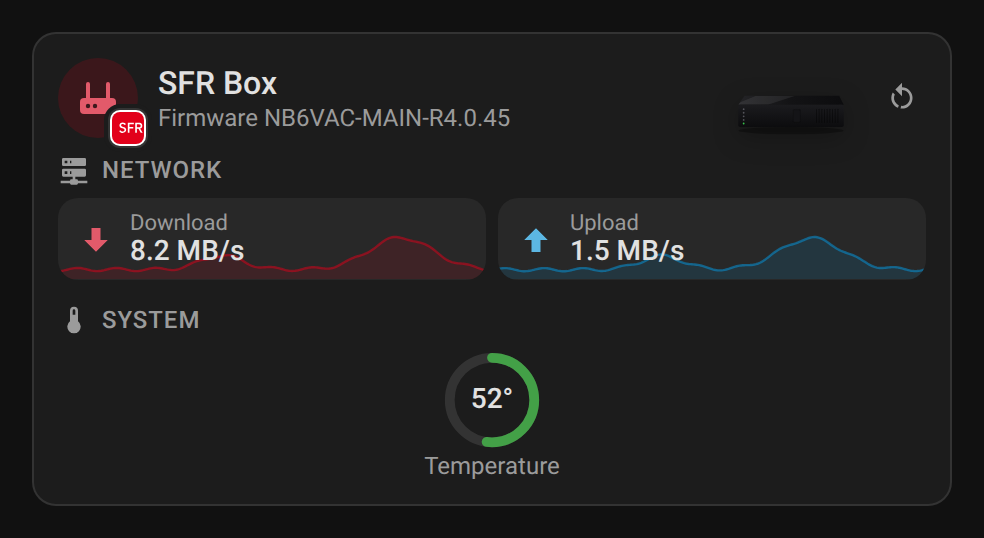
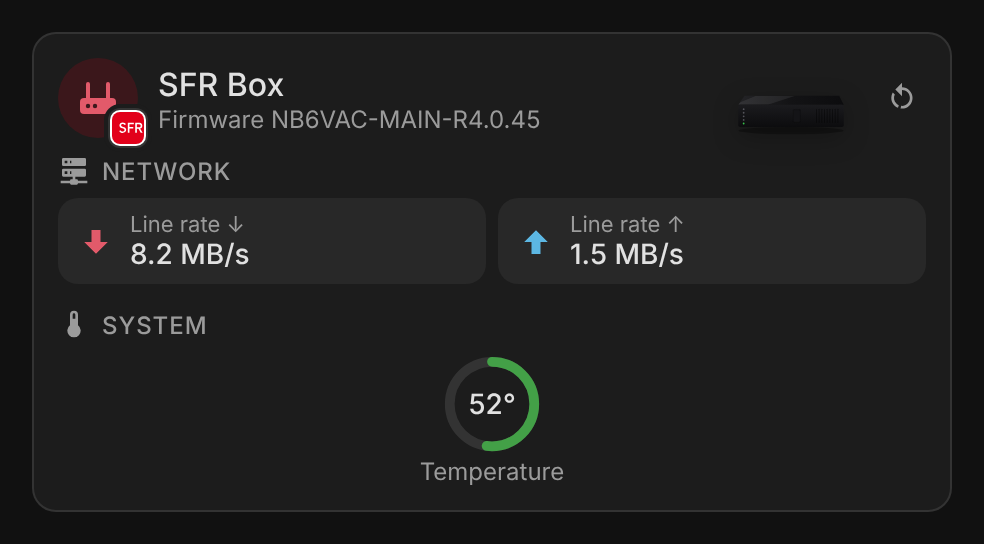
fix: show the SFR Box DSL sync rates as "Line rate", not traffic (2.4.1)
The sfr_box integration exposes no throughput sensor: dsl_rate_down /
dsl_rate_up are the DSL line sync rates. They were mapped to the
download / upload slots, so the tiles and their 24 h curves presented
the line rate as traffic. They now go to sync_* slots, rendered as
"Line rate" tiles (22 languages) without 24 h curve.

Claude-Session: https://claude.ai/code/session_01F4sAn1Ek4h88w9whpdhjW8

diff --git a/src/internet-box-card.js b/src/internet-box-card.js
@@ -463,6 +463,7 @@ const STRINGS = {
     services: "Services",
     download: "Download",
     upload: "Upload",
+    line_rate: "Line rate",
     uptime: "Uptime",
     firmware: "Firmware",
     devices_short: "Devices",
@@ -524,6 +525,7 @@ const STRINGS = {
     services: "Services",
     download: "Réception",
     upload: "Envoi",
+    line_rate: "Débit synchro",
     uptime: "Allumée depuis",
     firmware: "Firmware",
     devices_short: "Appareils",
@@ -585,6 +587,7 @@ const STRINGS = {
     services: "Dienste",
     download: "Download",
     upload: "Upload",
+    line_rate: "Leitungsrate",
     uptime: "Betriebszeit",
     firmware: "Firmware",
     devices_short: "Geräte",
@@ -645,6 +648,7 @@ const STRINGS = {
     services: "Servicios",
     download: "Descarga",
     upload: "Subida",
+    line_rate: "Velocidad de línea",
     uptime: "Tiempo activo",
     firmware: "Firmware",
     devices_short: "Dispositivos",
@@ -706,6 +710,7 @@ const STRINGS = {
     services: "Услуге",
     download: "Преузимање",
     upload: "Слање",
+    line_rate: "Брзина линије",
     uptime: "Време рада",
     firmware: "Фирмвер",
     devices_short: "Уређаји",
@@ -768,6 +773,7 @@ const STRINGS = {
     services: "Usluge",
     download: "Preuzimanje",
     upload: "Slanje",
+    line_rate: "Brzina linije",
     uptime: "Vreme rada",
     firmware: "Firmver",
     devices_short: "Uređaji",
@@ -830,6 +836,7 @@ const STRINGS = {
     services: "Servizi",
     download: "Download",
     upload: "Upload",
+    line_rate: "Velocità di linea",
     uptime: "Tempo di attività",
     firmware: "Firmware",
     devices_short: "Dispositivi",
@@ -891,6 +898,7 @@ const STRINGS = {
     services: "Diensten",
     download: "Download",
     upload: "Upload",
+    line_rate: "Lijnsnelheid",
     uptime: "Uptime",
     firmware: "Firmware",
     devices_short: "Apparaten",
@@ -951,6 +959,7 @@ const STRINGS = {
     services: "Serviços",
     download: "Transferência",
     upload: "Envio",
+    line_rate: "Velocidade da linha",
     uptime: "Tempo ligado",
     firmware: "Firmware",
     devices_short: "Dispositivos",
@@ -1012,6 +1021,7 @@ const STRINGS = {
     services: "Usługi",
     download: "Pobieranie",
     upload: "Wysyłanie",
+    line_rate: "Prędkość linii",
     uptime: "Czas pracy",
     firmware: "Firmware",
     devices_short: "Urządzenia",
@@ -1075,6 +1085,7 @@ const STRINGS = {
     services: "Servicii",
     download: "Descărcare",
     upload: "Încărcare",
+    line_rate: "Viteză linie",
     uptime: "Funcționează de",
     firmware: "Firmware",
     devices_short: "Dispozitive",
@@ -1136,6 +1147,7 @@ const STRINGS = {
     services: "Tjenester",
     download: "Download",
     upload: "Upload",
+    line_rate: "Linjehastighed",
     uptime: "Oppetid",
     firmware: "Firmware",
     devices_short: "Enheder",
@@ -1197,6 +1209,7 @@ const STRINGS = {
     services: "Tjänster",
     download: "Nedladdning",
     upload: "Uppladdning",
+    line_rate: "Linjehastighet",
     uptime: "Drifttid",
     firmware: "Firmware",
     devices_short: "Enheter",
@@ -1258,6 +1271,7 @@ const STRINGS = {
     services: "Услуги",
     download: "Изтегляне",
     upload: "Качване",
+    line_rate: "Скорост на линията",
     uptime: "Време на работа",
     firmware: "Фърмуер",
     devices_short: "Устройства",
@@ -1319,6 +1333,7 @@ const STRINGS = {
     services: "Сервисы",
     download: "Приём",
     upload: "Передача",
+    line_rate: "Скорость линии",
     uptime: "Время работы",
     firmware: "Прошивка",
     devices_short: "Устройства",
@@ -1380,6 +1395,7 @@ const STRINGS = {
     services: "Сервіси",
     download: "Прийом",
     upload: "Передача",
+    line_rate: "Швидкість лінії",
     uptime: "Час роботи",
     firmware: "Прошивка",
     devices_short: "Пристрої",
@@ -1442,6 +1458,7 @@ const STRINGS = {
     services: "Szolgáltatások",
     download: "Letöltés",
     upload: "Feltöltés",
+    line_rate: "Vonalsebesség",
     uptime: "Üzemidő",
     firmware: "Firmware",
     devices_short: "Eszközök",
@@ -1502,6 +1519,7 @@ const STRINGS = {
     services: "Služby",
     download: "Sťahovanie",
     upload: "Odosielanie",
+    line_rate: "Rýchlosť linky",
     uptime: "Doba prevádzky",
     firmware: "Firmvér",
     devices_short: "Zariadenia",
@@ -1564,6 +1582,7 @@ const STRINGS = {
     services: "Služby",
     download: "Stahování",
     upload: "Odesílání",
+    line_rate: "Rychlost linky",
     uptime: "Doba provozu",
     firmware: "Firmware",
     devices_short: "Zařízení",
@@ -1626,6 +1645,7 @@ const STRINGS = {
     services: "Storitve",
     download: "Prejemanje",
     upload: "Pošiljanje",
+    line_rate: "Hitrost linije",
     uptime: "Čas delovanja",
     firmware: "Firmware",
     devices_short: "Naprave",
@@ -1689,6 +1709,7 @@ const STRINGS = {
     services: "Pakalpojumi",
     download: "Lejupielāde",
     upload: "Augšupielāde",
+    line_rate: "Līnijas ātrums",
     uptime: "Darbības laiks",
     firmware: "Firmware",
     devices_short: "Ierīces",
@@ -1750,6 +1771,7 @@ const STRINGS = {
     services: "Υπηρεσίες",
     download: "Λήψη",
     upload: "Αποστολή",
+    line_rate: "Ταχύτητα γραμμής",
     uptime: "Σε λειτουργία",
     firmware: "Firmware",
     devices_short: "Συσκευές",
@@ -1872,8 +1894,10 @@ const OPERATORS = {
       { id: "sfr_box_7", name: "SFR Box 7", re: /box\s*7|nb7/i },
       { id: "sfr_nb6vac", name: "SFR Box", re: /nb6vac|box\s*(plus|power|fibre|thd)/i },
     ],
-    // The reboot button has no translation key but device_class "restart" (matched below too).
-    keys: { rate_down: "dsl_rate_down", rate_up: "dsl_rate_up", reboot: "system_reboot" },
+    // sfr_box exposes no throughput sensor, only the DSL line sync rates: they go to the `sync_*` slots, shown as
+    // "Line rate" (no 24 h traffic curve), never as download / upload. The reboot button has no translation key
+    // but device_class "restart" (matched below too).
+    keys: { sync_down: "dsl_rate_down", sync_up: "dsl_rate_up", reboot: "system_reboot" },
   },
   bbox: {
     platform: "bbox", name: "Bbox", color: "#1246a0", logo: IMG_BBOX,
@@ -2147,9 +2171,12 @@ const registry = (hass) => {
   return list;
 };
 
-/** True when an entity is the operator's "download rate" sensor (by translation key, or entity id for a legacy one). */
+/** True when an entity is the operator's "download rate" sensor (by translation key, or entity id for a legacy one),
+ *  or its downstream line sync rate for an operator without throughput sensors (SFR Box). */
 const isRateDown = (op, e) =>
-  (op.keys.rate_down && e.translation_key === op.keys.rate_down) || (op.legacy?.rate_down?.test(e.entity_id));
+  (op.keys.rate_down && e.translation_key === op.keys.rate_down) ||
+  (op.keys.sync_down && e.translation_key === op.keys.sync_down) ||
+  (op.legacy?.rate_down?.test(e.entity_id));
 
 /** The operator of a device, from the platform of its registry entities, or undefined. */
 const opOfDevice = (hass, deviceId) => {
@@ -2289,6 +2316,8 @@ const discover = (hass, boxId) => {
         // Each data slot is matched by the operator's translation key, or by an entity-id pattern for a legacy one.
         if ((keys.rate_down && k === keys.rate_down) || (legacy?.rate_down?.test(id))) box.scalars.rate_down = id;
         else if ((keys.rate_up && k === keys.rate_up) || (legacy?.rate_up?.test(id))) box.scalars.rate_up = id;
+        else if (keys.sync_down && k === keys.sync_down) box.scalars.sync_down = id;
+        else if (keys.sync_up && k === keys.sync_up) box.scalars.sync_up = id;
         else if (keys.missed && k === keys.missed) box.scalars.missed = id;
         else if (keys.wifi && k === keys.wifi) box.scalars.wifi = id;
         else if (own && domain === "button" && keys.mark_read && k === keys.mark_read) box.scalars.mark_read = id;
@@ -2647,6 +2676,15 @@ class InternetBoxBase extends HTMLElement {
     )}</div></div></div>`;
   }
 
+  // The download / upload tiles, with their 24 h curves (`hist`). A box without throughput sensors (SFR Box) gets
+  // its DSL line sync rates instead, labelled "Line rate" and without curve: the sync rate is not traffic.
+  _rateTiles(sc, hist) {
+    if (sc.rate_down || sc.rate_up)
+      return `${this._rateTile(sc.rate_down, "down", ICONS.down, this._t("download"), hist)}${this._rateTile(sc.rate_up, "up", ICONS.up, this._t("upload"), hist)}`;
+    const k = this._t("line_rate");
+    return `${this._rateTile(sc.sync_down, "down sync", ICONS.down, `${k} ↓`, null)}${this._rateTile(sc.sync_up, "up sync", ICONS.up, `${k} ↑`, null)}`;
+  }
+
   // What the render depends on: registries, language, the states of the box entities and the
   // minute, for the uptime shown in days, hours and minutes.
   _signature() {
@@ -2921,7 +2959,7 @@ class InternetBoxCard extends InternetBoxBase {
 
   _network(box) {
     const sc = box.scalars;
-    if (!sc.rate_down && !sc.rate_up) return "";
+    if (!sc.rate_down && !sc.rate_up && !sc.sync_down && !sc.sync_up) return "";
     const router = this._s(sc.router);
     const facts = [];
     if (router?.attributes?.IPv4)
@@ -2942,10 +2980,7 @@ class InternetBoxCard extends InternetBoxBase {
     const hist = this._config.show_history === false ? null : this._history([sc.rate_down, sc.rate_up].filter(Boolean));
     return `<div>
       <div class="section-title">${svgIcon(ICONS.network)}${this._t("network")}</div>
-      <div class="grid2">
-        ${this._rateTile(sc.rate_down, "down", ICONS.down, this._t("download"), hist)}
-        ${this._rateTile(sc.rate_up, "up", ICONS.up, this._t("upload"), hist)}
-      </div>
+      <div class="grid2">${this._rateTiles(sc, hist)}</div>
       ${facts.length ? `<div class="facts">${facts.join("")}</div>` : ""}
     </div>`;
   }
@@ -3140,12 +3175,10 @@ class InternetBoxMiniCard extends InternetBoxCard {
     const c = this._config;
     const sc = box.scalars;
     const parts = [];
-    if (c.show_network !== false && (sc.rate_down || sc.rate_up)) {
+    if (c.show_network !== false && (sc.rate_down || sc.rate_up || sc.sync_down || sc.sync_up)) {
       // The same 24 h curves as the full card, behind the compact rate tiles.
       const hist = c.show_history === false ? null : this._history([sc.rate_down, sc.rate_up].filter(Boolean));
-      parts.push(
-        `<div class="grid2">${this._rateTile(sc.rate_down, "down", ICONS.down, this._t("download"), hist)}${this._rateTile(sc.rate_up, "up", ICONS.up, this._t("upload"), hist)}</div>`
-      );
+      parts.push(`<div class="grid2">${this._rateTiles(sc, hist)}</div>`);
     }
     const foot = [];
     const router = this._s(sc.router);

diff --git a/README.md b/README.md
@@ -54,7 +54,7 @@ Entities are **discovered automatically**, you don't have to pick them one by on
 |---|---|
 | [Freebox](https://www.home-assistant.io/integrations/freebox/) (built in) | Rates, connection, IP, uptime, temperatures, fans, storage, RAID, Wi-Fi, missed calls (mark as read), connected devices, reboot |
 | [Livebox](https://github.com/cyr-ius/hass-livebox-component) (Orange, custom) | Line rates, Wi-Fi, missed calls (clear), connected devices, reboot |
-| [SFR Box](https://www.home-assistant.io/integrations/sfr_box/) (built in) | DSL line rates, temperature, reboot |
+| [SFR Box](https://www.home-assistant.io/integrations/sfr_box/) (built in) | DSL line sync rates, shown as "Line rate" (the integration has no throughput sensor, so no download / upload traffic nor 24 h curve), temperature, reboot |
 | [Bbox](https://www.home-assistant.io/integrations/bbox/) (Bouygues, built in, YAML) | Download / upload bandwidth |
 
 ## Prerequisites
@@ -209,7 +209,7 @@ While the box is running, the card animates: the cooling fan spins at its live s
 
 ### Operators
 
-The full card with what each integration exposes: the Freebox shows every section (rates, connection, temperatures, fan, storage, Wi-Fi, calls, devices, restart); the Livebox its line rates, Wi-Fi, missed calls (with the clear button), connected devices and restart button; the SFR Box its DSL line rates, temperature and restart button; the Bbox its bandwidth (picture set with `model: bbox_fibre`).
+The full card with what each integration exposes: the Freebox shows every section (rates, connection, temperatures, fan, storage, Wi-Fi, calls, devices, restart); the Livebox its line rates, Wi-Fi, missed calls (with the clear button), connected devices and restart button; the SFR Box its DSL line sync rates ("Line rate"), temperature and restart button; the Bbox its bandwidth (picture set with `model: bbox_fibre`).
 
 | Operator | Light | Dark |
 |---|---|---|

diff --git a/CHANGELOG.md b/CHANGELOG.md
@@ -1,5 +1,10 @@
 # Changelog
 
+## 2.4.1 - 2026-11-07
+
+### Fixes
+- SFR Box: the DSL line sync rates are no longer shown as download / upload traffic (the `sfr_box` integration has no throughput sensor). They show as "Line rate" tiles, without the 24 h traffic curve.
+
 ## 2.4.0 - 2026-11-07
 
 ### Features
